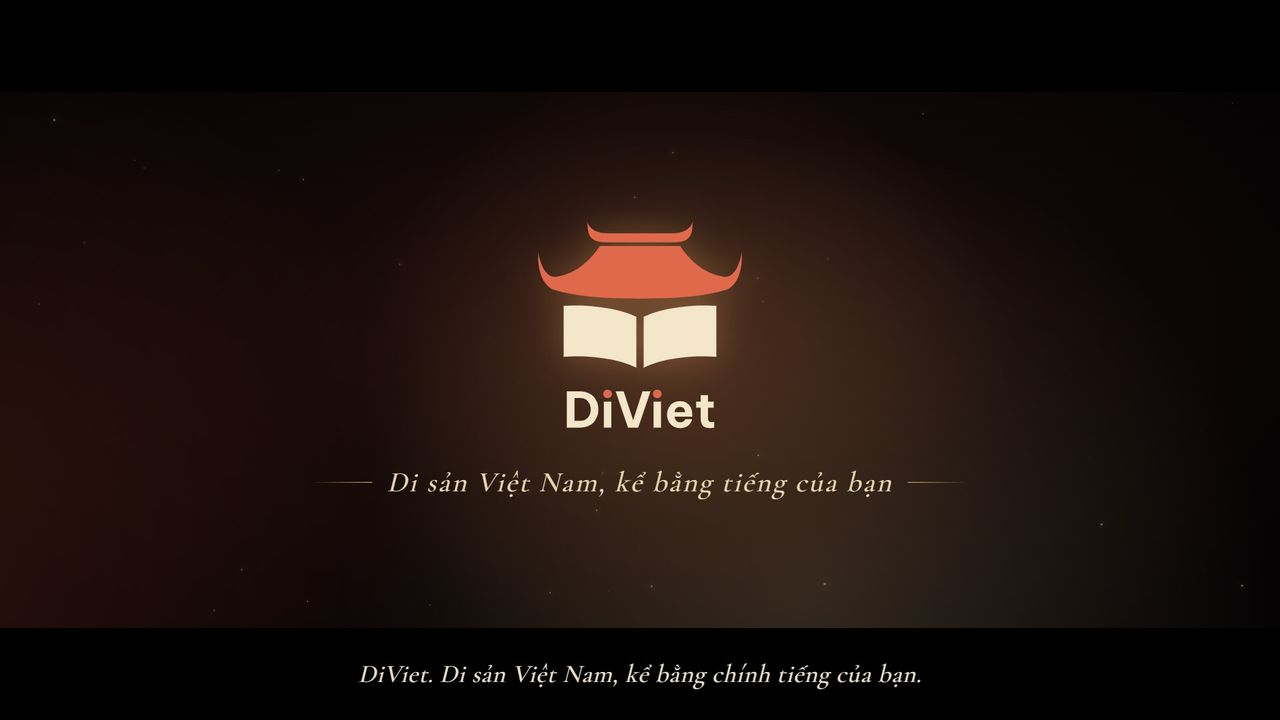
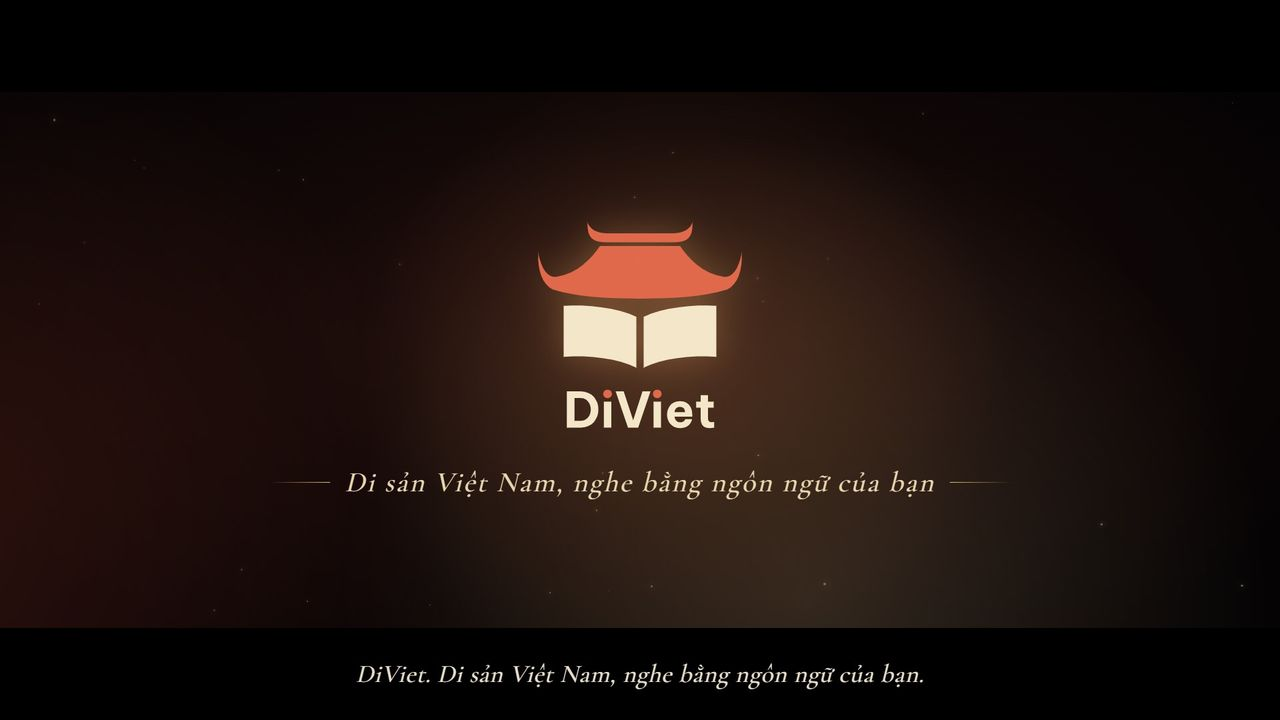
Say listen in your language in the videos, About page and narration card (#75)
## Thay đổi

Theo góp ý của người dùng: đổi "kể bằng (chính) tiếng của bạn" thành
"nghe bằng ngôn ngữ của bạn" / "lắng nghe … theo ngôn ngữ của bạn".

- Trang Giới thiệu (tiếng Việt): tiêu đề "Di sản Việt Nam, nghe bằng
ngôn ngữ của bạn".
- App, thẻ giới thiệu thứ ba: "Lắng nghe thuyết minh theo ngôn ngữ của
bạn".
- Video trailer và video demo bản tiếng Việt đã dựng lại với câu mới và
tải đè lên Cloudinary (cùng tên tệp); phụ đề `trailer.vi.vtt`,
`demo-tinh-nang.vi.vtt` và ảnh bìa `trailer.vi.jpg` (khung có khẩu hiệu)
cập nhật theo.
- Bản tiếng Anh, Hàn, Trung, Nhật giữ nguyên.

## Kiểm

- `vitest` trang Giới thiệu: 7/7 đạt; `jest` phần mở đầu app: 23/23 đạt.
- Lời đọc mới nghe lại bằng Whisper: các câu đổi đúng từng chữ.

---------

Changed region(s): [[0.2812, 0.6417, 0.7188, 0.7028], [0.2812, 0.9167, 0.7188, 0.9778]]

diff --git a/apps/app-mobile/src/i18n/strings/vi.ts b/apps/app-mobile/src/i18n/strings/vi.ts
@@ -258,7 +258,7 @@ export const vi: Strings = {
     step: 'Bước {{current}} trên {{total}}',
     welcome: { text: 'Bản đồ, thuyết minh, mô hình 3D và bài học về di sản Việt Nam, gói gọn trong một ứng dụng.' },
     discover: { title: 'Khám phá di sản gần bạn', text: 'Mở bản đồ, tìm di sản quanh nơi bạn đứng và đọc tóm tắt từng nơi.' },
-    narration: { title: 'Nghe thuyết minh bằng tiếng của bạn', text: 'Chọn một trong năm ngôn ngữ, rồi nghe thuyết minh về từng di sản.' },
+    narration: { title: 'Lắng nghe thuyết minh theo ngôn ngữ của bạn', text: 'Chọn một trong năm ngôn ngữ, rồi nghe thuyết minh về từng di sản.' },
     model: { title: 'Xem 3D và dòng thời gian', text: 'Xoay mô hình 3D của di sản và đi theo dòng thời gian lịch sử.' },
     learn: { title: 'Học sinh học theo cấp bằng mã bài học', text: 'Học sinh đăng nhập, nhập mã bài học thầy cô cho và học đúng với cấp của mình.' },
   },

diff --git a/apps/web-hoc-tap/src/pages/IntroPages.test.tsx b/apps/web-hoc-tap/src/pages/IntroPages.test.tsx
@@ -35,7 +35,7 @@ describe('trang Giới thiệu', () => {
     const calls = mockApi();
     renderApp('/gioi-thieu');
 
-    expect(await screen.findByRole('heading', { level: 1, name: 'Di sản Việt Nam, kể bằng ngôn ngữ của bạn' })).toBeInTheDocument();
+    expect(await screen.findByRole('heading', { level: 1, name: 'Di sản Việt Nam, nghe bằng ngôn ngữ của bạn' })).toBeInTheDocument();
     expect(document.title).toBe('Giới thiệu · DiViet');
     expect(screen.getByRole('link', { name: 'Bắt đầu khám phá' })).toHaveAttribute('href', '/di-san');
 

diff --git a/apps/web-hoc-tap/src/i18n/strings/vi.ts b/apps/web-hoc-tap/src/i18n/strings/vi.ts
@@ -412,7 +412,7 @@ export const vi = {
   about: {
     title: 'Giới thiệu',
     kicker: 'GIỚI THIỆU',
-    heroTitle: 'Di sản Việt Nam, kể bằng ngôn ngữ của bạn',
+    heroTitle: 'Di sản Việt Nam, nghe bằng ngôn ngữ của bạn',
     heroText: 'DiViet là trang web và app miễn phí để khám phá di sản văn hóa và thiên nhiên Việt Nam. Đọc được bằng tiếng Việt, Anh, Hàn, Trung hoặc Nhật, không cần tài khoản.',
     start: 'Bắt đầu khám phá',
     openMap: 'Mở bản đồ di sản',

diff --git a/apps/app-mobile/src/intro/IntroCards.test.tsx b/apps/app-mobile/src/intro/IntroCards.test.tsx
@@ -71,7 +71,7 @@ describe('IntroCards', () => {
     expect(screen.has('Khám phá di sản gần bạn')).toBe(true);
     expect(screen.step()).toBe('Bước 2 trên 5');
     await screen.press('Tiếp');
-    expect(screen.has('Nghe thuyết minh bằng tiếng của bạn')).toBe(true);
+    expect(screen.has('Lắng nghe thuyết minh theo ngôn ngữ của bạn')).toBe(true);
     await screen.press('Tiếp');
     expect(screen.has('Xem 3D và dòng thời gian')).toBe(true);
     await screen.press('Tiếp');
